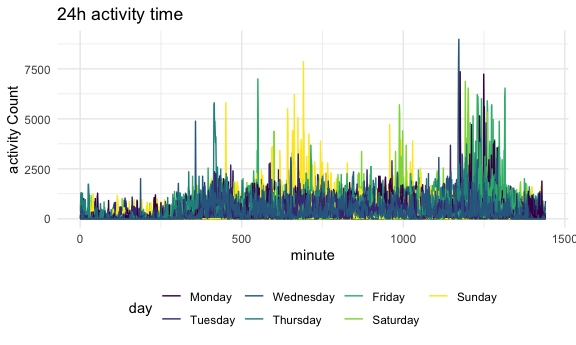
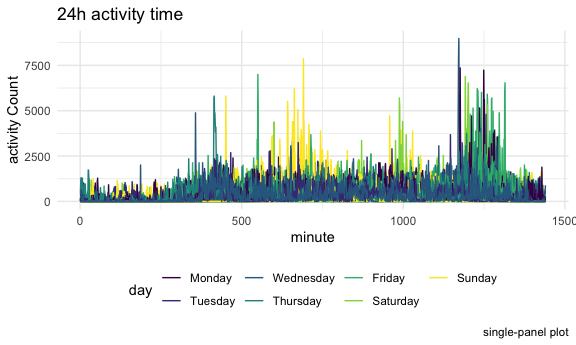
final version

diff --git a/p8105_hw3_fs2757.md b/p8105_hw3_fs2757.md
@@ -407,7 +407,8 @@ acceldata=read_csv("accel_data.csv")%>%
                                      `Thursday` = "weekday",
                                      `Friday` = "weekday"),
          weekday_vs_weekend=factor(weekday_vs_weekend),
-         minute = as.numeric(minute))
+         minute = as.numeric(minute)
+         )
 ```
 
     ## Rows: 35 Columns: 1443
@@ -472,11 +473,7 @@ acceldata %>%
       title = "24h activity time",
       x = "minute",
       y = "activity Count",
-    caption = "single-panel plot" + 
-    theme(
-      plot.title = element_text(size = 13, hjust = 0.5),
-      axis.title.x = element_text(size = 8),
-      axis.title.y = element_text(size = 8)))
+    caption = "single-panel plot")
 ```
 
 <img src="p8105_hw3_fs2757_files/figure-gfm/unnamed-chunk-13-1.png" width="90%" />
